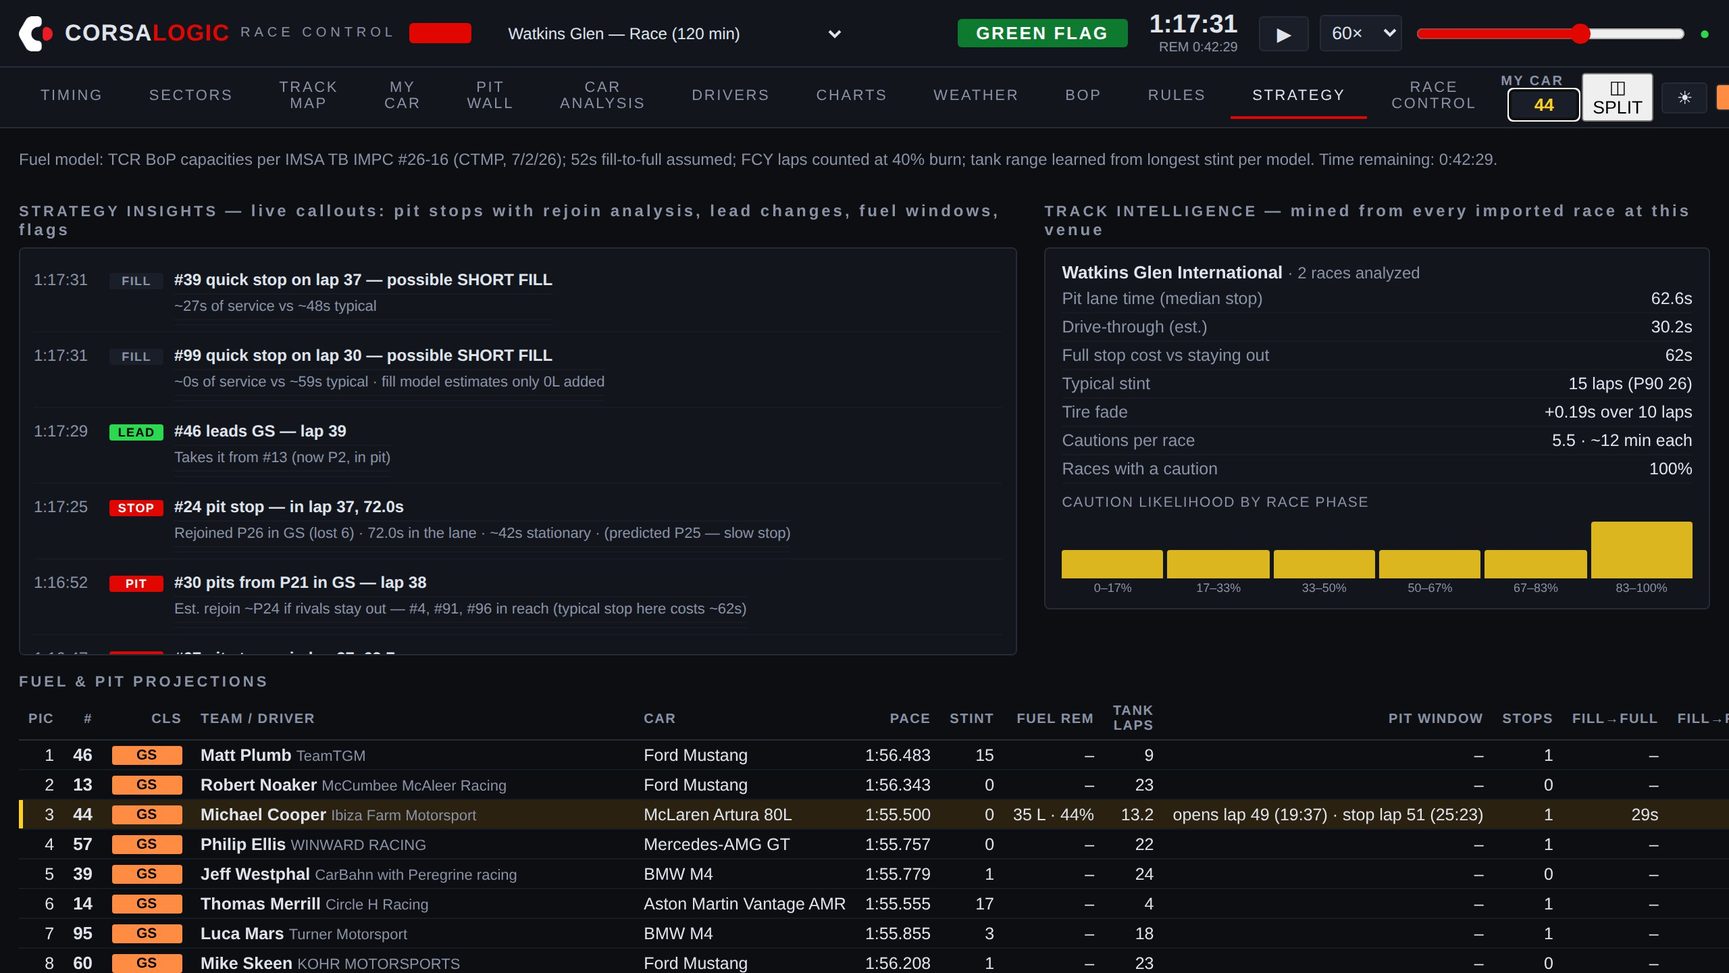
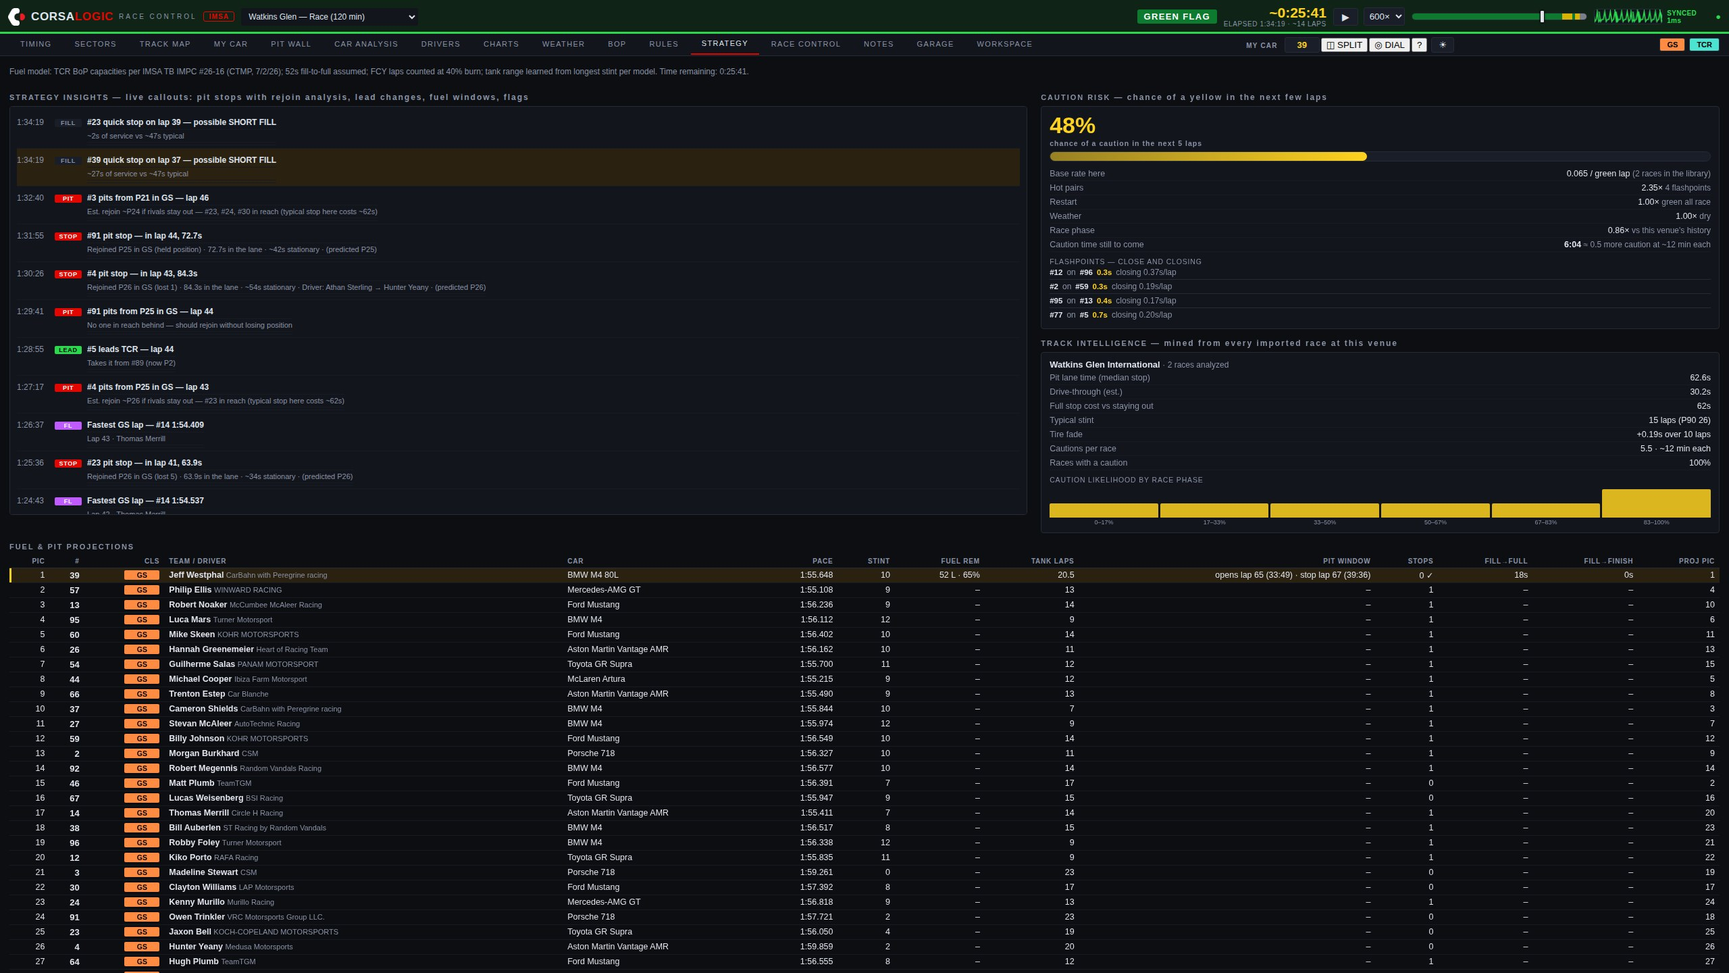
Race Control page: screenshots become the page
Every product shot was rendering at half or a third of the column and the
data in them was unreadable — for a timing product, the screenshots ARE
the pitch. This retakes every screenshot on the current UI at 2560x1440
and rebuilds the page so each one runs near viewport width (1560px) with
the selling points in two columns beneath it.

- Fresh captures: timing (lead), strategy, track map, MY CAR (with the
  short-fill what-if filled in), and a new full weather screen with the
  self-hosted radar and storm rings.
- Workspace section now shows three different layouts (RACE ENGINEER,
  STRATEGY WALL, TIMING + WEATHER), each full width with a caption naming
  what's on it.
- New Pit Dial section led by a faithful render of the puck's actual
  firmware faces: the waving green flag, the countdown clock arc, and the
  fuel arc with its seven-segment litres.
- Weather and Pit Dial graduated from bento cells to full sections; their
  cells are replaced by two features the page never mentioned: the
  laps-remaining clock and the field-wide pit forecast.
- Dropped orphaned split.jpg and the single workspace.jpg.

Claude-Session: https://claude.ai/code/session_014RiaoJREfzXqrFLjmTJgpi

diff --git a/racecontrol.html b/racecontrol.html
@@ -44,7 +44,7 @@
 
   <section style="padding-top:0;">
     <div class="wrap reveal">
-      <img class="screenshot screenshot--lead" src="assets/photos/racecontrol/timing.jpg" alt="Race Control live timing screen: full multi-class IMSA field with sector times, bests, gaps, theoretical and projected laps, and pit information" width="2580" height="1580" loading="eager">
+      <img class="screenshot screenshot--lead" src="assets/photos/racecontrol/timing.jpg" alt="Race Control live timing screen: full multi-class IMSA field with sector times, bests, gaps, theoretical and projected laps, and pit information" width="2560" height="1440" loading="eager">
     </div>
   </section>
 
@@ -55,75 +55,114 @@
   </section>
 
   <section class="rule-top">
-    <div class="wrap">
+    <div class="wrap reveal">
+      <p class="label" style="margin-bottom:12px;">Strategy</p>
+      <h2 class="shot-h">An AI race engineer on the feed.</h2>
+      <p class="prose">Race Control watches every timing line and calls out what matters, the moment it happens — with predictions built from a library of past races at the same circuit.</p>
+    </div>
+    <div class="wrap reveal">
+      <img class="screenshot screenshot--lead" src="assets/photos/racecontrol/strategy.jpg" alt="Strategy screen: live insight feed with pit callouts and fuel windows, caution risk, mined track intelligence, and a field-wide pit forecast with per-car fuel projections" loading="lazy">
+      <ul class="shot-points">
+        <li><strong>Pit stops, decoded.</strong> When a rival pits you get the lap, the time in the lane, and a rejoin prediction — before they're back up to speed.</li>
+        <li><strong>Short fills, flagged.</strong> A stop far quicker than the field's usual gets called out the moment it happens — with the liters the fill model says actually went in.</li>
+        <li><strong>Windows on your lap numbers.</strong> Pit windows for the whole field read "opens lap 49 · stop lap 51", not arithmetic you do in your head.</li>
+        <li><strong>Track intelligence.</strong> Pit-lane loss, stint lengths, caution frequency and timing — mined from real races at this venue, not rules of thumb.</li>
+      </ul>
+    </div>
+  </section>
 
-      <div class="feature feature--shot reveal">
-        <div class="feature-media">
-          <img class="screenshot" src="assets/photos/racecontrol/strategy.jpg" alt="Strategy screen: live insight feed with pit callouts and fuel windows, mined track intelligence, and per-car fuel and pit projections" loading="lazy">
-        </div>
-        <div>
-          <p class="label" style="margin-bottom:12px;">Strategy</p>
-          <h2>An AI race engineer on the feed.</h2>
-          <p class="prose">Race Control watches every timing line and calls out what matters, the moment it happens — with predictions built from a library of past races at the same circuit.</p>
-          <ul>
-            <li><strong>Pit stops, decoded.</strong> When a rival pits you get the lap, the time in the lane, and a rejoin prediction — before they're back up to speed.</li>
-            <li><strong>Short fills, flagged.</strong> A stop far quicker than the field's usual gets called out the moment it happens — with the liters the fill model says actually went in.</li>
-            <li><strong>Windows on your lap numbers.</strong> Pit windows for the whole field read "opens lap 49 · stop lap 51", not arithmetic you do in your head.</li>
-            <li><strong>Track intelligence.</strong> Pit-lane loss, stint lengths, caution frequency and timing — mined from real races at this venue, not rules of thumb.</li>
-          </ul>
-        </div>
-      </div>
+  <section class="rule-top">
+    <div class="wrap reveal">
+      <p class="label" style="margin-bottom:12px;">Track position</p>
+      <h2 class="shot-h">See the race, not just the column of numbers.</h2>
+      <p class="prose">Every car lives on a map of the real circuit, wrapped in a lap-progress ring. Under caution, the safety car is marked and the running order re-forms in front of you.</p>
+    </div>
+    <div class="wrap reveal">
+      <img class="screenshot screenshot--lead" src="assets/photos/racecontrol/trackmap.jpg" alt="Track map screen: circuit outline inside a lap-progress ring, every car positioned live, the rejoin marker showing where a pit stop comes back out, and the track-order strip" loading="lazy">
+      <ul class="shot-points">
+        <li><strong>Pass-around answers.</strong> During full-course yellows, Race Control tells you plainly whether your car is a wave-by candidate — green when you are, red when you're not.</li>
+        <li><strong>The rejoin marker.</strong> A pin on the circuit showing exactly where your car comes back out if it pits now, with the live cost of the stop in seconds — it moves as your tank empties.</li>
+        <li><strong>Live crossing order &amp; gap strip.</strong> The physical order on the road from the timing loops, plus a strip of on-track gaps around your car — who's ahead and behind on the tarmac, in seconds.</li>
+        <li><strong>Battles ticker.</strong> Who's catching whom, at what rate, and how many laps until it matters.</li>
+      </ul>
+    </div>
+  </section>
 
-      <div class="feature flip feature--shot reveal">
-        <div class="feature-media">
-          <img class="screenshot" src="assets/photos/racecontrol/trackmap.jpg" alt="Track map screen: circuit outline inside a lap-progress ring, safety car marked in yellow, and the track-order strip showing pass-around candidates" loading="lazy">
-        </div>
-        <div>
-          <p class="label" style="margin-bottom:12px;">Track position</p>
-          <h2>See the race, not just the column of numbers.</h2>
-          <p class="prose">Every car lives on a map of the real circuit, wrapped in a lap-progress ring. Under caution, the safety car is marked and the running order re-forms in front of you.</p>
-          <ul>
-            <li><strong>Pass-around answers.</strong> During full-course yellows, Race Control tells you plainly whether your car is a wave-by candidate — green when you are, red when you're not.</li>
-            <li><strong>Live crossing order &amp; gap strip.</strong> The physical order on the road from the timing loops, plus a strip of on-track gaps around your car — who's ahead and behind on the tarmac, in seconds.</li>
-            <li><strong>Battles ticker.</strong> Who's catching whom, at what rate, and how many laps until it matters.</li>
-          </ul>
-        </div>
-      </div>
+  <section class="rule-top">
+    <div class="wrap reveal">
+      <p class="label" style="margin-bottom:12px;">Fuel</p>
+      <h2 class="shot-h">The tank, modeled — and corrected by your driver.</h2>
+      <p class="prose">A live fuel ledger for your car: a liquid tank gauge with laps of fuel inside it, a lap-by-lap trend chart, and the stop precomputed — down to the seconds of hose time to reach the finish.</p>
+    </div>
+    <div class="wrap reveal">
+      <img class="screenshot screenshot--lead" src="assets/photos/racecontrol/mycar.jpg" alt="MY CAR screen: liquid fuel gauge showing laps of fuel in the tank, fuel and strategy panel with projected stop lap, short-fill what-if with rejoin traffic, pace comparison, threats and targets" loading="lazy">
+      <ul class="shot-points">
+        <li><strong>Your numbers.</strong> Set the tank capacity and your measured liters-per-lap; every account keeps its own fuel settings, private to your team.</li>
+        <li><strong>Dash reports.</strong> Radio the fuel reading in, type it once, and the whole model re-anchors to reality — and it all survives a mid-race restart.</li>
+        <li><strong>The call, ready.</strong> Projected stop lap, fill-to-full and fill-to-finish in seconds at the real fill rate — honest about the physical tank, and about whether one stop is enough.</li>
+        <li><strong>Fuel at the flag.</strong> The litres left in the tank at the chequered if you run it to the end — or exactly how many short you are, agreeing with the stop the window is already calling.</li>
+        <li><strong>Short fills, answered before you commit.</strong> Type the litres and see the hose time, the total stop cost, the laps it buys — and which cars you'd come back out between on track.</li>
+        <li><strong>Commands that can't get lost.</strong> Every fuel entry is held until the server confirms it, retried across reconnects, and flagged on screen until it lands — a call made on bad WiFi never dies silently.</li>
+      </ul>
+    </div>
+  </section>
 
-      <div class="feature feature--shot reveal">
-        <div class="feature-media">
-          <img class="screenshot" src="assets/photos/racecontrol/mycar.jpg" alt="MY CAR screen: liquid fuel gauge showing laps of fuel in the tank, fuel and strategy panel with projected stop lap, fuel trend chart, pace and sector comparison, threats and targets" loading="lazy">
-        </div>
-        <div>
-          <p class="label" style="margin-bottom:12px;">Fuel</p>
-          <h2>The tank, modeled — and corrected by your driver.</h2>
-          <p class="prose">A live fuel ledger for your car: a liquid tank gauge with laps of fuel inside it, a lap-by-lap trend chart, and the stop precomputed — down to the seconds of hose time to reach the finish.</p>
-          <ul>
-            <li><strong>Your numbers.</strong> Set the tank capacity and your measured liters-per-lap; every account keeps its own fuel settings, private to your team.</li>
-            <li><strong>Dash reports.</strong> Radio the fuel reading in, type it once, and the whole model re-anchors to reality — and it all survives a mid-race restart.</li>
-            <li><strong>The call, ready.</strong> Projected stop lap, fill-to-full and fill-to-finish in seconds at the real fill rate — honest about the physical tank, and about whether one stop is enough.</li>
-            <li><strong>Fuel at the flag.</strong> The litres left in the tank at the chequered if you run it to the end — or exactly how many short you are, agreeing with the stop the window is already calling.</li>
-            <li><strong>Short fills, answered before you commit.</strong> Type the litres and see the hose time, the total stop cost, the laps it buys — and which cars you'd come back out between on track. The rejoin marker on the map moves with your tank: less to fill, further up the road.</li>
-          </ul>
-        </div>
-      </div>
+  <section class="rule-top">
+    <div class="wrap reveal">
+      <p class="label" style="margin-bottom:12px;">Weather</p>
+      <h2 class="shot-h">The rain call, on your own radar.</h2>
+      <p class="prose">Current conditions at the venue, hour-by-hour forecast, minutes-to-rain — and animated precipitation radar centered on the circuit, served entirely from our own infrastructure so paddock networks can't take it away.</p>
+    </div>
+    <div class="wrap reveal">
+      <img class="screenshot screenshot--lead" src="assets/photos/racecontrol/weather.jpg" alt="Weather screen: live conditions and temperature, 15-minute precipitation slots for the next three hours, 12-hour forecast table, and precipitation radar centered on the circuit" loading="lazy">
+      <ul class="shot-points">
+        <li><strong>Storm rings.</strong> 2, 4, 6 and 8-mile range rings around the circuit — the lightning-hold brackets race officials actually use, drawn on the map.</li>
+        <li><strong>Minutes to rain.</strong> The forecast reduced to the one line a pit wall acts on: when water arrives, in minutes, with 15-minute precipitation slots for the next three hours.</li>
+        <li><strong>Circuit-proof by design.</strong> Basemap and radar tiles are served from Race Control's own servers — no third-party map host a venue firewall can block.</li>
+        <li><strong>Honest when it can't see.</strong> If radar imagery is unavailable, the map says so in words — it never quietly shows you an empty sky.</li>
+      </ul>
+    </div>
+  </section>
 
-      <div class="feature flip feature--shot reveal">
-        <div class="feature-media">
-          <img class="screenshot" src="assets/photos/racecontrol/workspace.jpg" alt="Workspace: four live modules on one screen — the timing scoreboard, the track map with the rejoin marker, the MY CAR dashboard, and weather with radar" loading="lazy">
-        </div>
-        <div>
-          <p class="label" style="margin-bottom:12px;">Workspace</p>
-          <h2>Build your own pit stand.</h2>
-          <p class="prose">Every screen in Race Control is a module. Arrange up to eight of them on one display — timing beside the map beside your car beside the radar — exactly the way professional timing workbooks do it, in the browser.</p>
-          <ul>
-            <li><strong>Drag, resize, swap.</strong> Move a module by its title bar, resize by the corner, change what any cell shows. Each module is fully live with its own class filter — one panel on GS, the next on TCR.</li>
-            <li><strong>Layouts that follow you.</strong> Save named layouts to your account: the rig you build at the shop is on the pit-stand laptop when you sign in. Presets get a new team started in one click.</li>
-            <li><strong>One car, every panel.</strong> Set MY CAR once and every module follows it instantly. A second monitor is just another window with a different layout loaded.</li>
-          </ul>
-        </div>
-      </div>
+  <section class="rule-top">
+    <div class="wrap reveal">
+      <p class="label" style="margin-bottom:12px;">Workspace</p>
+      <h2 class="shot-h">Build your own pit stand.</h2>
+      <p class="prose">Every screen in Race Control is a module. Arrange up to eight of them on one display — timing beside the map beside your car beside the radar — exactly the way professional timing workbooks do it, in the browser. Three of the built-in layouts:</p>
+    </div>
+    <div class="wrap reveal">
+      <p class="shot-cap"><strong>Race engineer</strong> — timing, track map, MY CAR and radar on one screen</p>
+      <img class="screenshot screenshot--lead" src="assets/photos/racecontrol/workspace-engineer.jpg" alt="RACE ENGINEER workspace layout: live timing scoreboard, track map with rejoin marker, MY CAR fuel and pace dashboard, and weather radar arranged on one display" loading="lazy">
+    </div>
+    <div class="wrap reveal">
+      <p class="shot-cap"><strong>Strategy wall</strong> — the insight feed, field pit forecast, charts and MY CAR</p>
+      <img class="screenshot screenshot--lead" src="assets/photos/racecontrol/workspace-strategy.jpg" alt="STRATEGY WALL workspace layout: strategy insight feed with caution risk, field-wide pit forecast, lap charts, and the MY CAR dashboard on one display" loading="lazy">
+    </div>
+    <div class="wrap reveal">
+      <p class="shot-cap"><strong>Timing + weather</strong> — the full scoreboard with conditions and radar beside it</p>
+      <img class="screenshot screenshot--lead" src="assets/photos/racecontrol/workspace-timing.jpg" alt="TIMING + WEATHER workspace layout: full multi-class timing scoreboard beside live conditions, hourly forecast, and precipitation radar" loading="lazy">
+      <ul class="shot-points">
+        <li><strong>Drag, resize, swap.</strong> Move a module by its title bar, resize by the corner, change what any cell shows. Each module is fully live with its own class filter — one panel on GS, the next on TCR.</li>
+        <li><strong>Layouts that follow you.</strong> Save named layouts to your account: the rig you build at the shop is on the pit-stand laptop when you sign in. Presets get a new team started in one click.</li>
+        <li><strong>One car, every panel.</strong> Set MY CAR once and every module follows it instantly. A second monitor is just another window with a different layout loaded.</li>
+      </ul>
+    </div>
+  </section>
 
+  <section class="rule-top">
+    <div class="wrap reveal">
+      <p class="label" style="margin-bottom:12px;">Pit Dial — hardware</p>
+      <h2 class="shot-h">One number, readable from across the box.</h2>
+      <p class="prose">A round USB knob display for the pit stand, fed over the same cable that powers it. Rotate the knob and the whole screen becomes the flag, the session clock, the pit window, your fuel, your gap, the weather, or a stint timer.</p>
+    </div>
+    <div class="wrap reveal">
+      <img class="screenshot screenshot--lead" src="assets/photos/racecontrol/pitdial.jpg" alt="Pit Dial faces: the whole round screen as a waving green flag, the session clock inside a countdown arc, and fuel remaining in seven-segment digits inside a tank arc" loading="lazy">
+      <ul class="shot-points">
+        <li><strong>No WiFi, no configuration.</strong> The browser feeds it over the USB cable — plug it in, press DIAL on the timing page, done. It holds no credentials and joins no network.</li>
+        <li><strong>The screen is the flag.</strong> On a flag change the ring under the base flashes until the knob is pressed — peripheral vision, engineered.</li>
+        <li><strong>Pit-stop takeover.</strong> When your car crosses the pit line the dial becomes a stop timer, then shows the total and re-arms the stint clock as it leaves.</li>
+        <li><strong>Honestly STALE.</strong> If frames stop arriving it says so, and how long ago — a pit display that lies is worse than one that is obviously down.</li>
+      </ul>
     </div>
   </section>
 
@@ -137,8 +176,8 @@
           <p>Multi-class scoreboard with sectors, bests, gaps and stints — plus the analysis screens professional timing tools charge four figures for: sector comparison, lap analysis, pit stop matrix, gap chart, all-laps tables, and CSV export of everything.</p>
         </div>
         <div class="cell-narrow">
-          <h3>Weather &amp; live radar</h3>
-          <p>Current conditions, hour-by-hour forecast, minutes-to-rain, and animated precipitation radar with 2/4/6/8-mile storm rings around the circuit — the lightning-hold brackets, drawn on the map. Every map tile is served from our own infrastructure, so circuit networks can't take your radar away.</p>
+          <h3>A clock that thinks in laps</h3>
+          <p>Beside the time remaining, the laps remaining — computed from the leader's live pace, aware that a caution slows the answer down. It counts to "FINAL LAP" so nobody on the stand is doing division at the flag.</p>
         </div>
         <div class="cell-third">
           <h3>Balance of Performance</h3>
@@ -169,8 +208,8 @@
           <p>Paddock WiFi drops without warning, and most software lies about it. Race Control doesn't: a heartbeat in the header beats once per message actually delivered — it physically cannot look healthy over a dead link — and shows the measured round trip. Every command you press is held until the server confirms it, retried across reconnects, and flagged on screen until it lands. A fuel call made on bad WiFi is never silently lost.</p>
         </div>
         <div class="cell-narrow">
-          <h3>Pit Dial — hardware</h3>
-          <p>A round USB knob display for the pit stand, fed over the same cable that powers it. No WiFi, no configuration: it follows your car — flag, clock, pit window, fuel, gap, weather, stint timer — and goes honestly STALE rather than showing old numbers as fresh.</p>
+          <h3>The whole field's next stop</h3>
+          <p>A pit forecast for every car when each one is next due in: laps until the window, the earliest lap they can make it on fuel, stops left to the flag — and NONE, MAKES IT for the cars that don't have to come back.</p>
         </div>
         <div class="cell-third">
           <h3>Notes, stamped to the race</h3>

diff --git a/css/style.css b/css/style.css
@@ -519,15 +519,10 @@ form button { border: 0; cursor: pointer; font-family: var(--font); }
   border: 1px solid var(--hair-strong);
 }
 
-/* Feature blocks that carry a product screenshot: the shot is the point, so
-   it gets the lion's share of the row and is never cropped — the generic
-   .feature-media 4:3 crop cuts the edges off a dense timing UI. */
-.feature--shot { grid-template-columns: 5fr 3fr; gap: 56px; }
-.feature--shot .feature-media img { aspect-ratio: auto; object-fit: contain; }
-
-/* The lead timing screenshot breaks out of the text column for presence —
-   near-viewport width (80px margin also covers the scrollbar that 100vw
-   ignores), centered, capped so it never pixelates. */
+/* Every screenshot breaks out of the text column for presence — the shots
+   are the product, so each one runs near viewport width (80px margin also
+   covers the scrollbar that 100vw ignores), centered, capped so it never
+   pixelates. */
 .screenshot--lead {
   display: block;
   width: min(1560px, calc(100vw - 80px));
@@ -537,8 +532,49 @@ form button { border: 0; cursor: pointer; font-family: var(--font); }
   transform: translateX(-50%);
 }
 
+/* Screenshot-led feature sections: a short intro, then the full-width shot,
+   then the selling points in columns beneath it, aligned to the shot. */
+.shot-h {
+  font-size: clamp(1.7rem, 3vw, 2.4rem);
+  font-weight: 200;
+  letter-spacing: -0.01em;
+  margin-bottom: 18px;
+}
+.screenshot--lead + .shot-points,
+.screenshot--lead + .shot-cap { margin-top: 24px; }
+.shot-points {
+  list-style: none;
+  display: grid;
+  grid-template-columns: 1fr 1fr;
+  gap: 0 56px;
+  width: min(1560px, calc(100vw - 80px));
+  position: relative;
+  left: 50%;
+  transform: translateX(-50%);
+}
+.shot-points li {
+  padding: 12px 0;
+  border-top: 1px solid var(--hair);
+  color: var(--ink-soft);
+  font-size: 15.5px;
+}
+.shot-points li strong { color: var(--ink); font-weight: 500; }
+
+/* Captions naming each layout in the workspace gallery. */
+.shot-cap {
+  width: min(1560px, calc(100vw - 80px));
+  position: relative;
+  left: 50%;
+  transform: translateX(-50%);
+  margin: 48px 0 14px;
+  font-size: 11px;
+  font-weight: 500;
+  text-transform: uppercase;
+  letter-spacing: 0.18em;
+  color: var(--ink-soft);
+}
+.shot-cap strong { color: var(--ink); }
+
 @media (max-width: 860px) {
-  /* keep the single-column stack on small screens (this rule sits after the
-     generic .feature breakpoint, so it must restate it) */
-  .feature--shot { grid-template-columns: 1fr; gap: 36px; }
+  .shot-points { grid-template-columns: 1fr; }
 }
